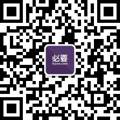
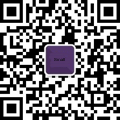
解决打包后图片地址错误问题

Changed region(s): [[0.425, 0.45, 0.575, 0.575]]

diff --git a/src/components/nav/Nav.js b/src/components/nav/Nav.js
@@ -14,10 +14,10 @@ export default class Nav extends React.Component {
           list:['首页','每日上新']
         },
         {
-          list:['了解必要','下载必要APP']
+          list:['了解Small','下载Small APP']
         },
         {
-          list:['我的必要']
+          list:['我的Small']
         }
       ],
       scrollHeight: 0,
@@ -80,10 +80,10 @@ export default class Nav extends React.Component {
 
   onMouseEnter = (data) => {
     let { visible1,visible2 } = this.state;
-    if (data == '了解必要') {
+    if (data == '了解Small') {
       visible1 = true
     }
-    if (data == '我的必要') {
+    if (data == '我的Small') {
       visible2 = true
     }
     this.setState({
@@ -94,10 +94,10 @@ export default class Nav extends React.Component {
 
   onMouseLeaver = (data) => {
     let { visible1,visible2 } = this.state;
-    if (data == '了解必要') {
+    if (data == '了解Small') {
       // visible1 = false
     }
-    if (data == '我的必要') {
+    if (data == '我的Small') {
       visible2 = false
     }
     this.setState({
@@ -136,7 +136,8 @@ export default class Nav extends React.Component {
       return (
         <div className = {styles.container}>
           <div className={styles.topStyle}>
-            <img className={styles.logo} src='http://static3.biyao.com/pc/common/img/master/logo.png'/>
+            {/*<img className={styles.logo} src='http://static3.biyao.com/pc/common/img/master/logo.png'/>*/}
+            <img className={styles.logo} src={require('../../images/logo.png')}/>
             <div style={{width:'40%'}}>
               <SearchInput {...searchInputProps}/>
               <div style={{marginTop:'0.5em'}}>
@@ -167,10 +168,10 @@ export default class Nav extends React.Component {
                         >
                         {k}
                           {
-                            k == '了解必要' && visible1 ?
+                            k == '了解Small' && visible1 ?
                             <Modal {...modalProps1}>
                               <div style={{ fontSize:'15px',color:'#4e4e4c',lineHeight:'23px' }}>
-                                <div>关注必要微信公众号</div>
+                                <div>关注Small微信公众号</div>
                                 <div>了解你想了解的一切</div>
                                 <div>小必姐在此发福利哦</div>
                               </div>
@@ -178,10 +179,10 @@ export default class Nav extends React.Component {
                             : ''
                           }
                           {
-                            k == '我的必要' && visible2 ?
+                            k == '我的Small' && visible2 ?
                             <Modal {...modalProps2}>
                               <div style={{ fontSize:'15px',color:'#4e4e4c',lineHeight:'23px' }}>
-                                <div>扫码下载必要app</div>
+                                <div>扫码下载Small app</div>
                                 <div>手机用户独享海量权益</div>
                               </div>
                             </Modal>

diff --git a/public/index.html b/public/index.html
@@ -2,18 +2,17 @@
 
 <html lang="en">
   <head>
-    <title>必要商城</title>
+    <title>Small</title>
     <meta charset="utf-8" />
     <meta name="viewport" content="width=device-width, initial-scale=1" />
     <meta http-equiv="X-UA-Compatible" content="IE=edge,Chrome=1" />
     <meta name="theme-color" content="#000000" />
-    <link rel="shortcut icon" href="/flower.png"/>
+    <link rel="shortcut icon" href="../src/images/logo.png"/>
     <link href="index.css" type="text/css" rel="stylesheet" />
   </head>
   <body style="margin:0 auto;background-color:#F9F9F9">
     <div id="root"></div>
     <script src="config.js"></script>
     <script src="index.js"></script>
-    <!-- <script src="//cdn.bootcss.com/es6-shim/0.35.4/es6-shim.js"></script> -->
   </body>
 </html>

diff --git a/src/components/home/NavImage.js b/src/components/home/NavImage.js
@@ -1,8 +1,5 @@
 import NavTypeList from '../../common/NavTypeList';
-// import image from '../../images/home_1.png';
-// import image require('../../images/public_code.png')
-
-const image = require('../../images/home_1.png')
+import homeImage from './../../images/home-image.png';
 
 export default class NavImage extends React.Component {
 
@@ -11,7 +8,7 @@ export default class NavImage extends React.Component {
     const imageStyle = {
       width:'80%',
       height:'342px',
-      backgroundImage:`url(${image})`,
+      backgroundImage:`url(${require('../../images/home-image.png')})`,
       backgroundRepeat:'no-repeat',
       backgroundPosition:'center',
       backgroundSize:'cover',

diff --git a/.roadhogrc.js b/.roadhogrc.js
@@ -3,6 +3,8 @@ import 'babel-polyfill';
 export default {
   "entry": ['babel-polyfill', "src/index.js"],
   "disableCSSModules": false,
+  "publicPath": "./",
+  "outputPath": "./dist",
   "autoprefixer": null,
   "proxy": null,
   "extraBabelPlugins": [

diff --git a/src/components/nav/nav.css b/src/components/nav/nav.css
@@ -18,8 +18,8 @@
 }
 
 .logo {
-  width:239px;
-  height:50px;
+  /* width:239px; */
+  height:80px;
 }
 
 .searchInput {
